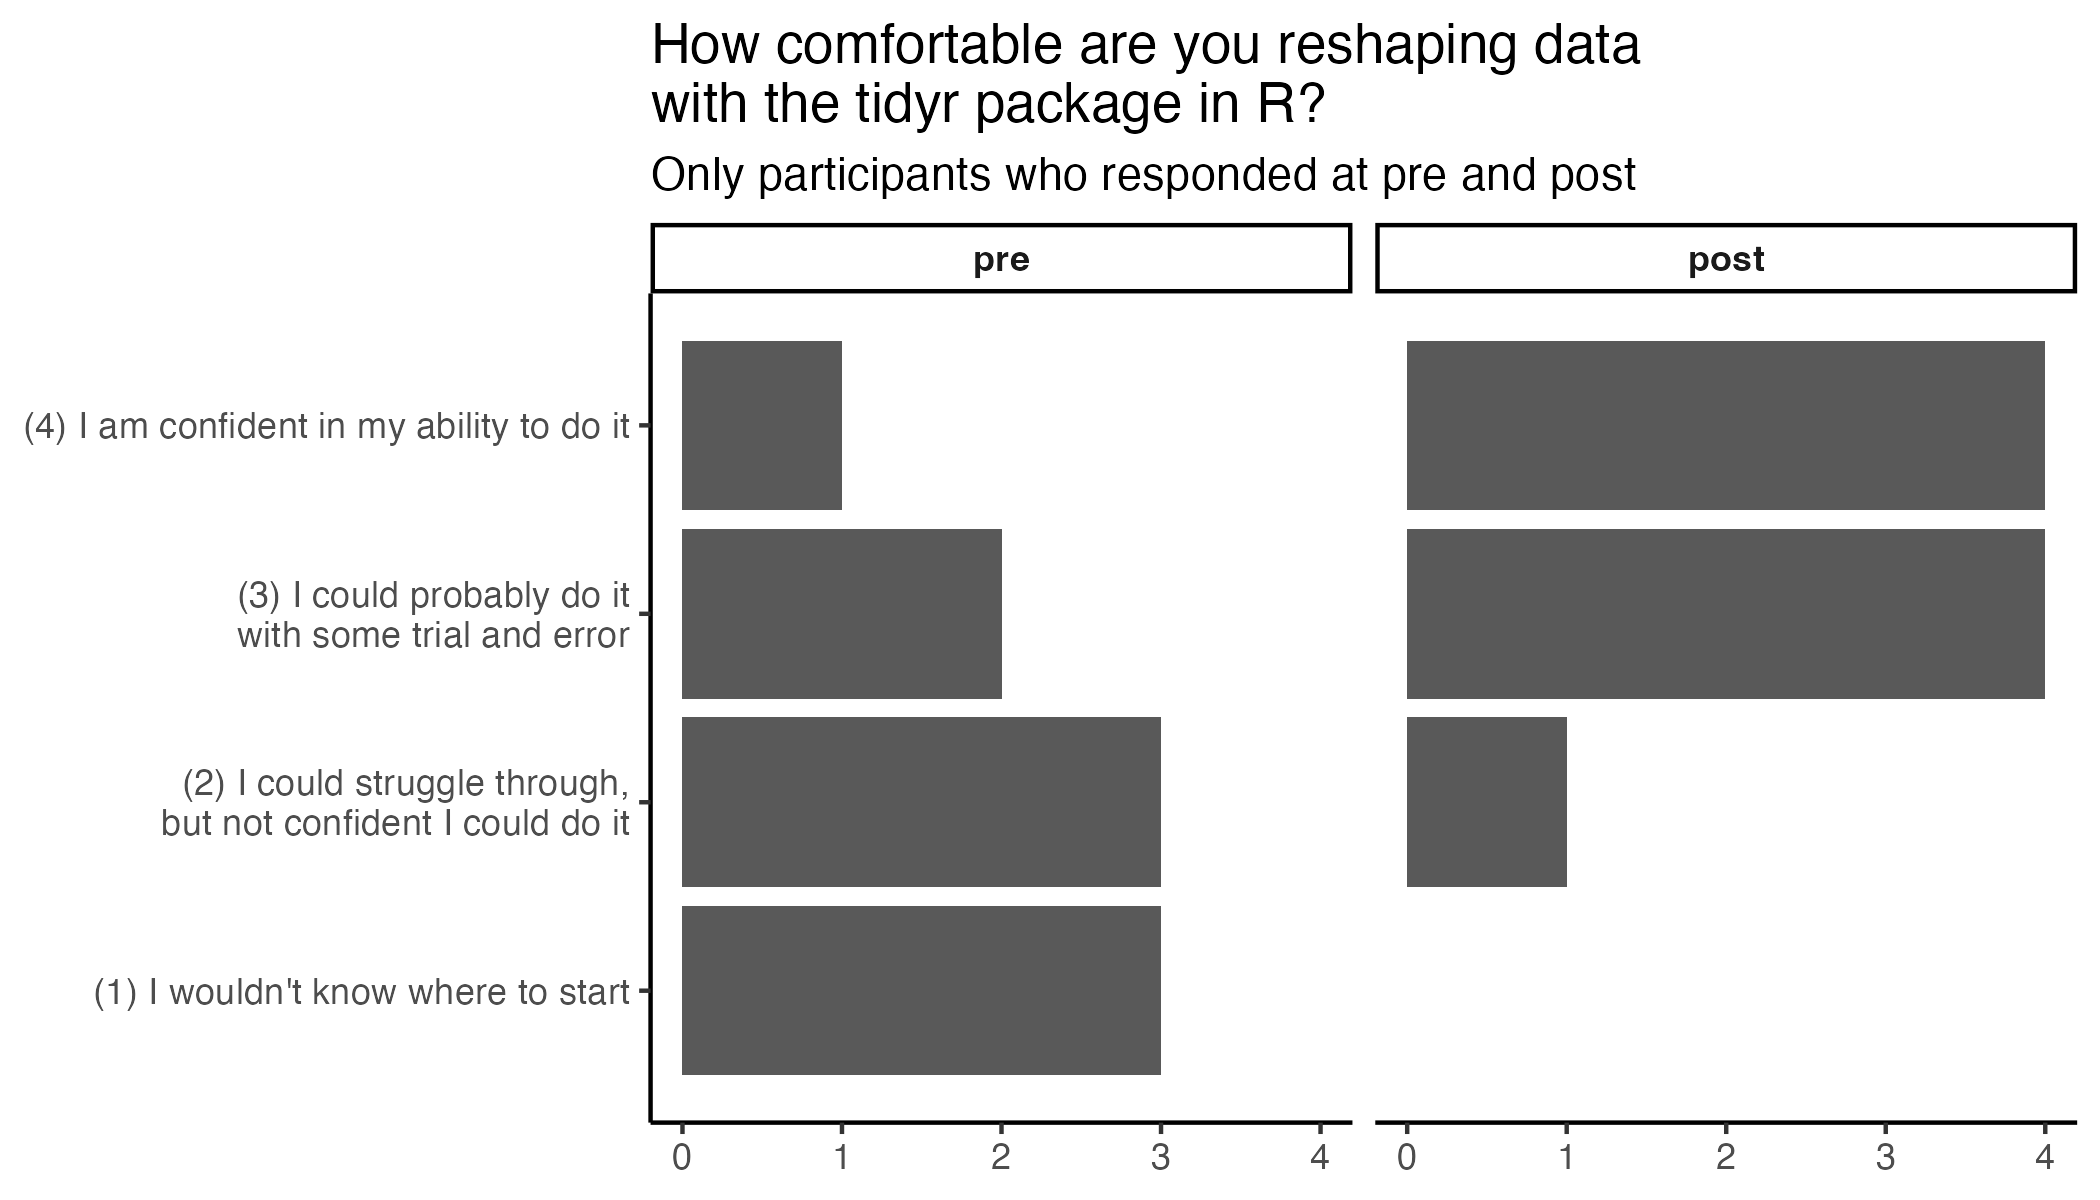
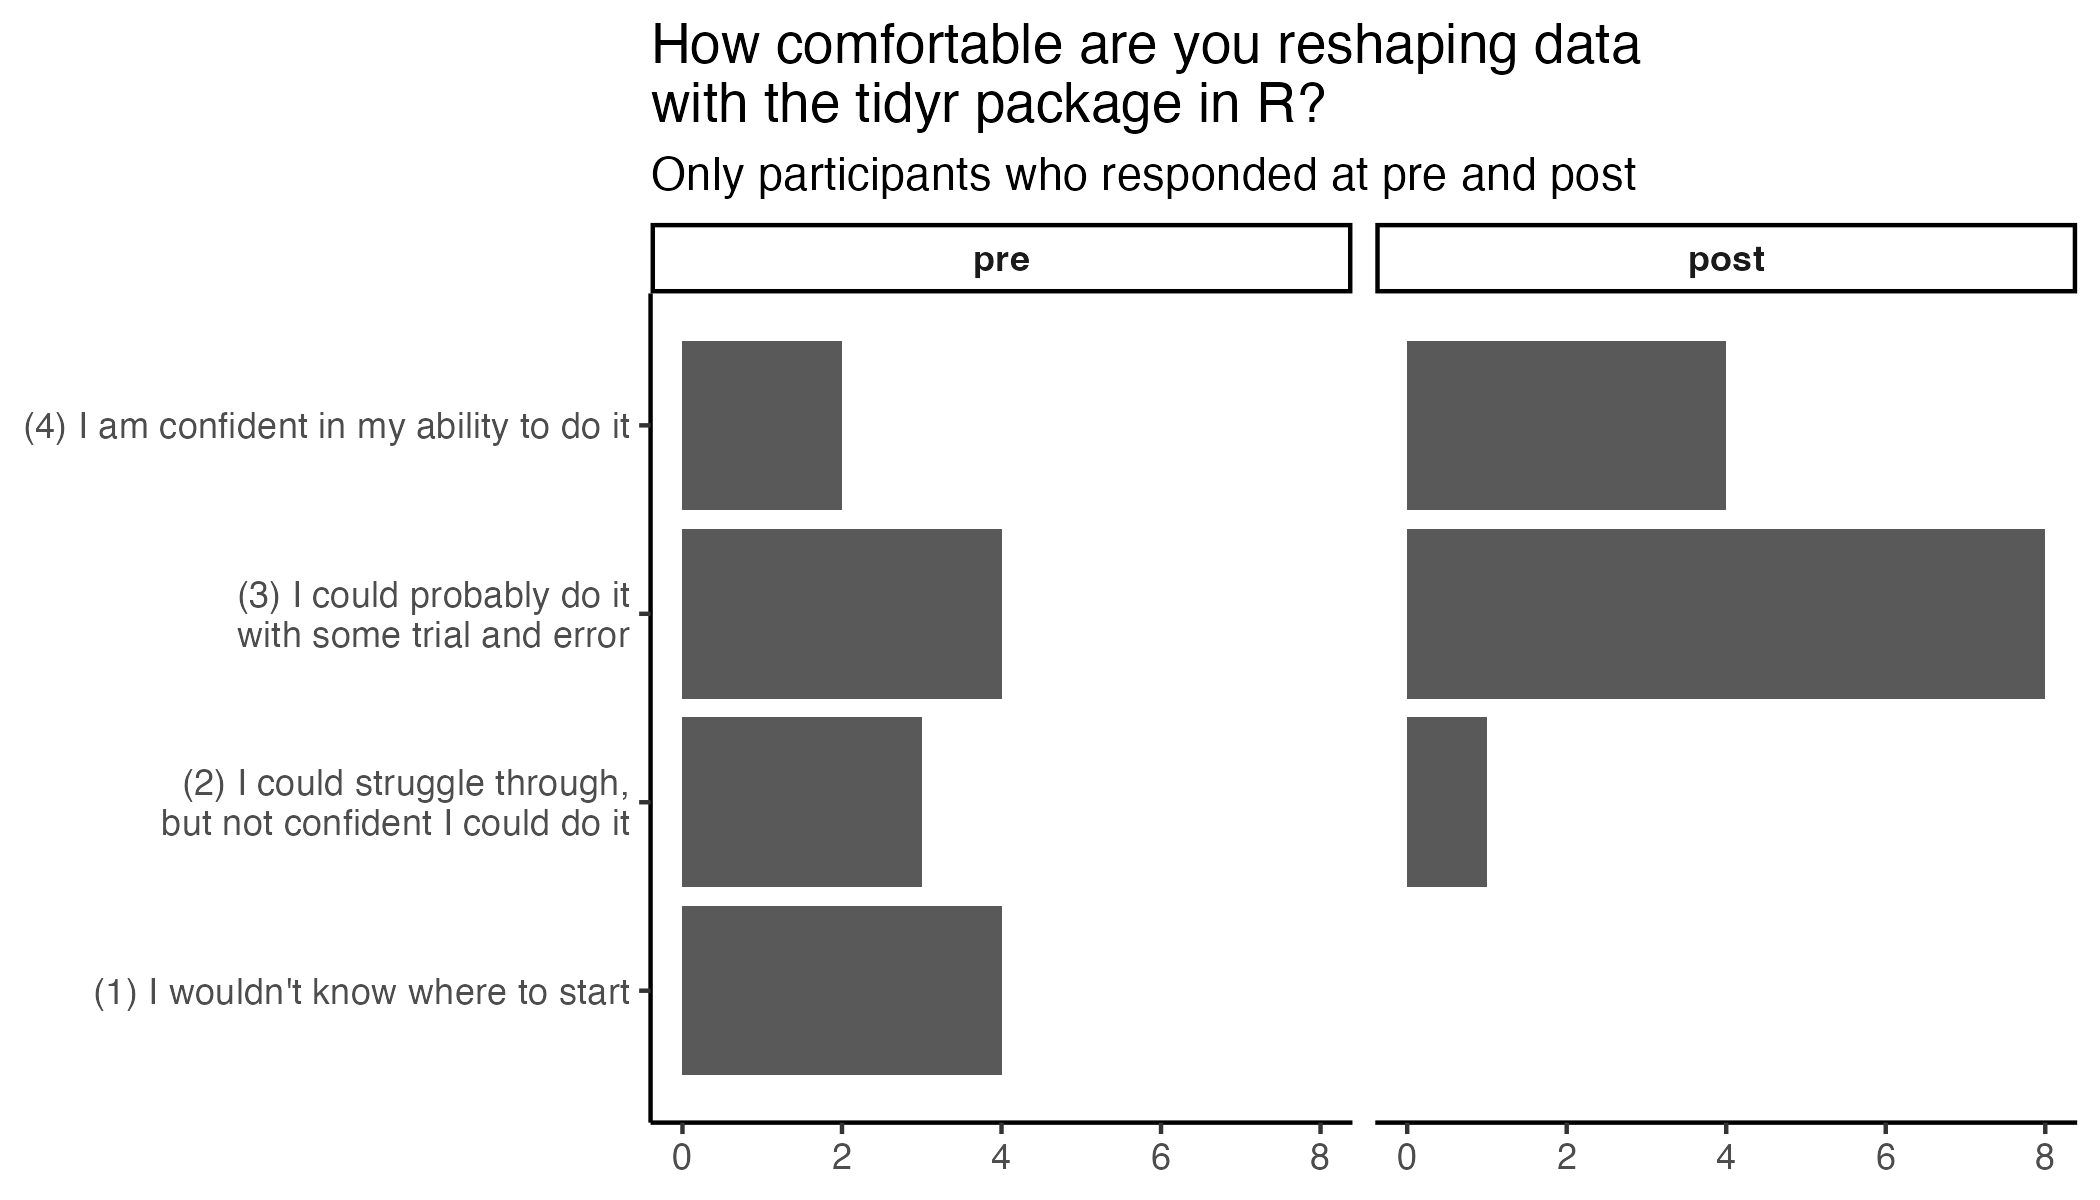
Update with fresh data

diff --git a/for_organizers/analysis.md b/for_organizers/analysis.md
@@ -1,7 +1,7 @@
 R102 Workshop Analysis
 ================
 Rose Hartman
-2024-05-13
+2024-05-14
 
 ``` r
 library(ggplot2)
@@ -330,7 +330,7 @@ afterward, t(27) = 3.29, p = .003.
 
 200 signups.
 
-10 responses on post-workshop survey.
+15 responses on post-workshop survey.
 
 All available responses at pre and post:
 
@@ -345,7 +345,7 @@ ggsave("prepost_05_all.png",
        height = 4, width = 7, units = "in")
 ```
 
-    ## Warning: Removed 262 rows containing non-finite outside the scale range
+    ## Warning: Removed 258 rows containing non-finite outside the scale range
     ## (`stat_count()`).
 
 ![](prepost_05_all.png)
@@ -378,7 +378,7 @@ may_test <- t.test(r102$tidyr_2, r102$tidyr, paired = TRUE)
 
 We saw significant improvement from pre to post after the Reshaping Data
 with tidyr session, with respondents reporting higher ability afterward,
-t(8) = 3.77, p = .005.
+t(12) = 2.98, p = .011.
 
 ## Data types and viz
 
